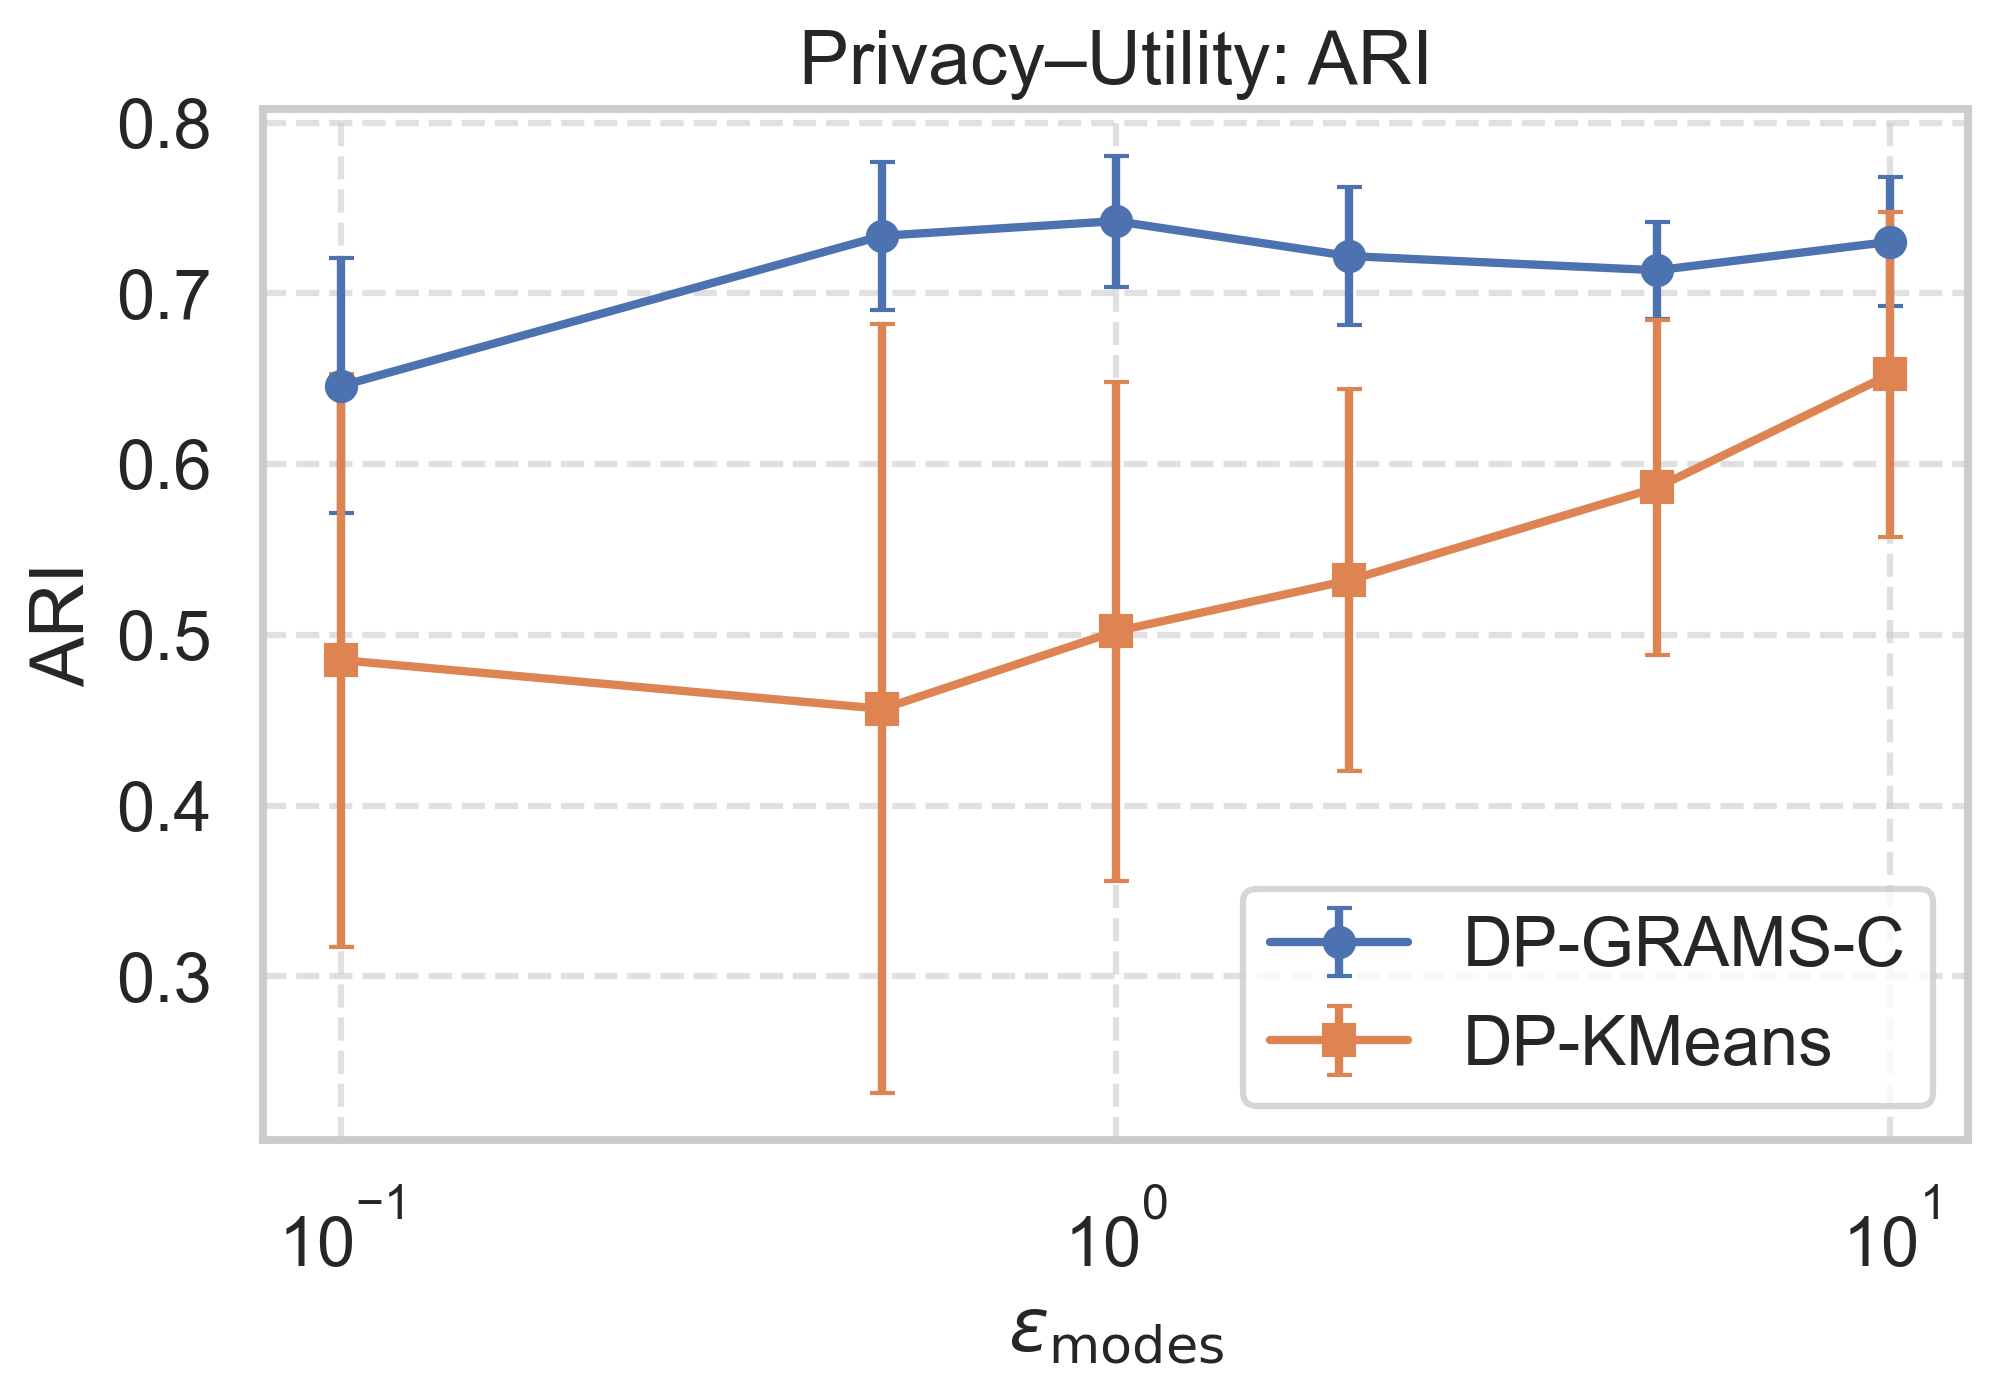
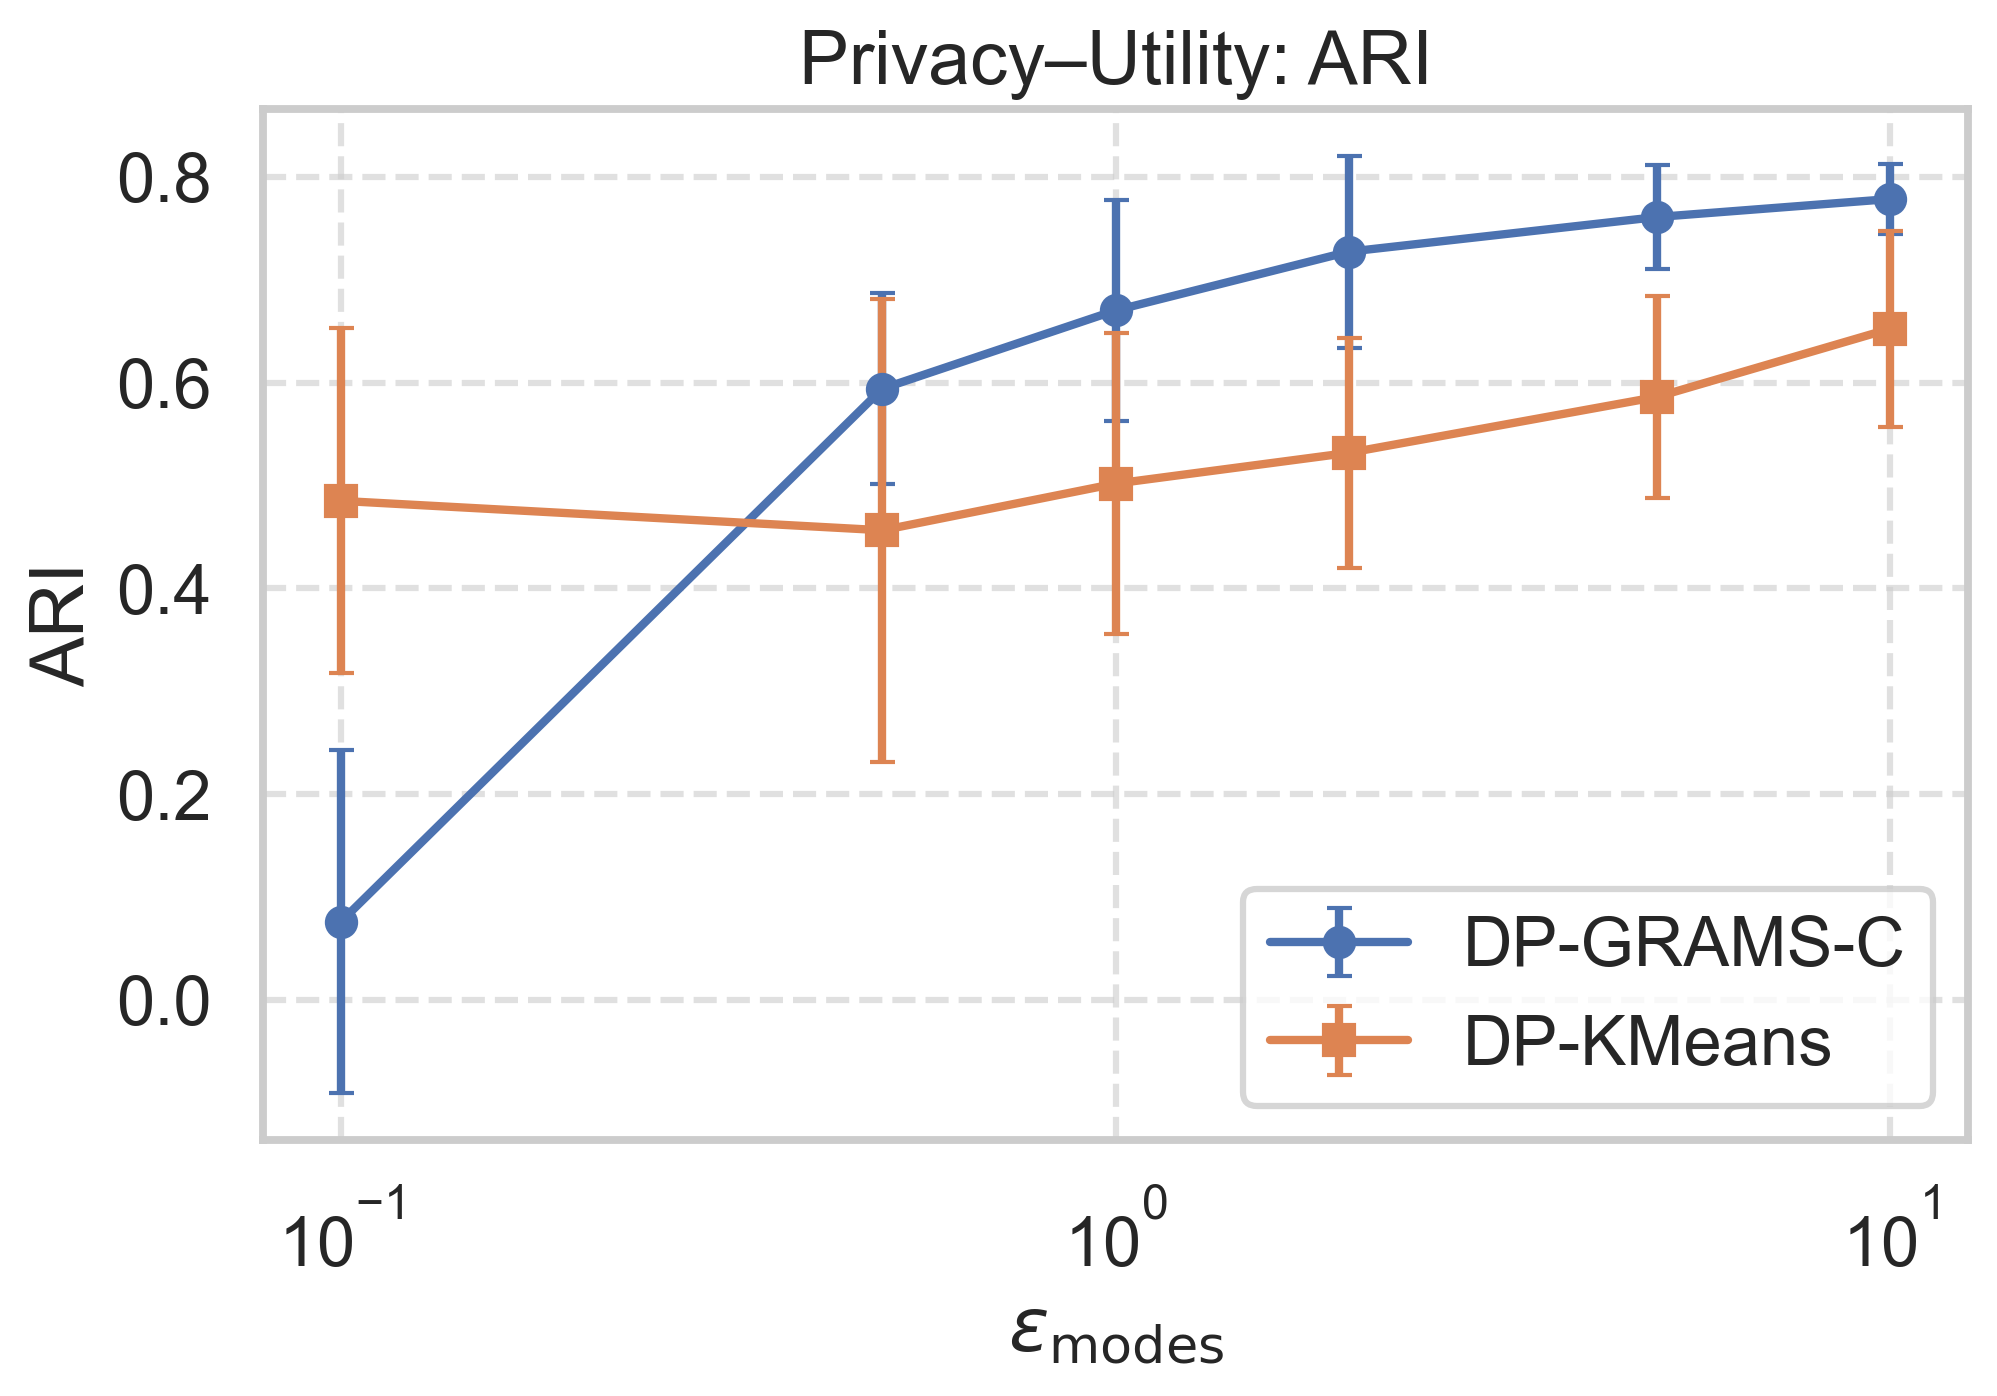
updated iris experiments with smaller eps and larger clipping constant

diff --git a/real_data_scripts/iris_compare_centroids.py b/real_data_scripts/iris_compare_centroids.py
@@ -314,6 +314,7 @@ print("Clustering comparison plot saved to:", save_path_clusters)
 # ---------------------------------------------------------------------
 # Privacy–utility curves: DP-GRAMS-C vs DP-KMeans as ε_modes varies
 # ---------------------------------------------------------------------
+# eps_modes_list = [0.01, 0.05, 0.1, 0.2, 0.5, 1]
 eps_modes_list = [0.1, 0.5, 1, 2, 5, 10]
 
 dpms_metrics = {m: [] for m in ["ARI", "NMI", "Silhouette", "MSE"]}
@@ -339,7 +340,7 @@ for eps in eps_modes_list:
             rng=rng_run,
             k_est=merge_n_clusters,
             bandwidth_multiplier=1.0,
-            clip_multiplier=0.01
+            clip_multiplier=0.1
         )
         t_dpms = time.time() - t0
         dpms_times.append(t_dpms)
